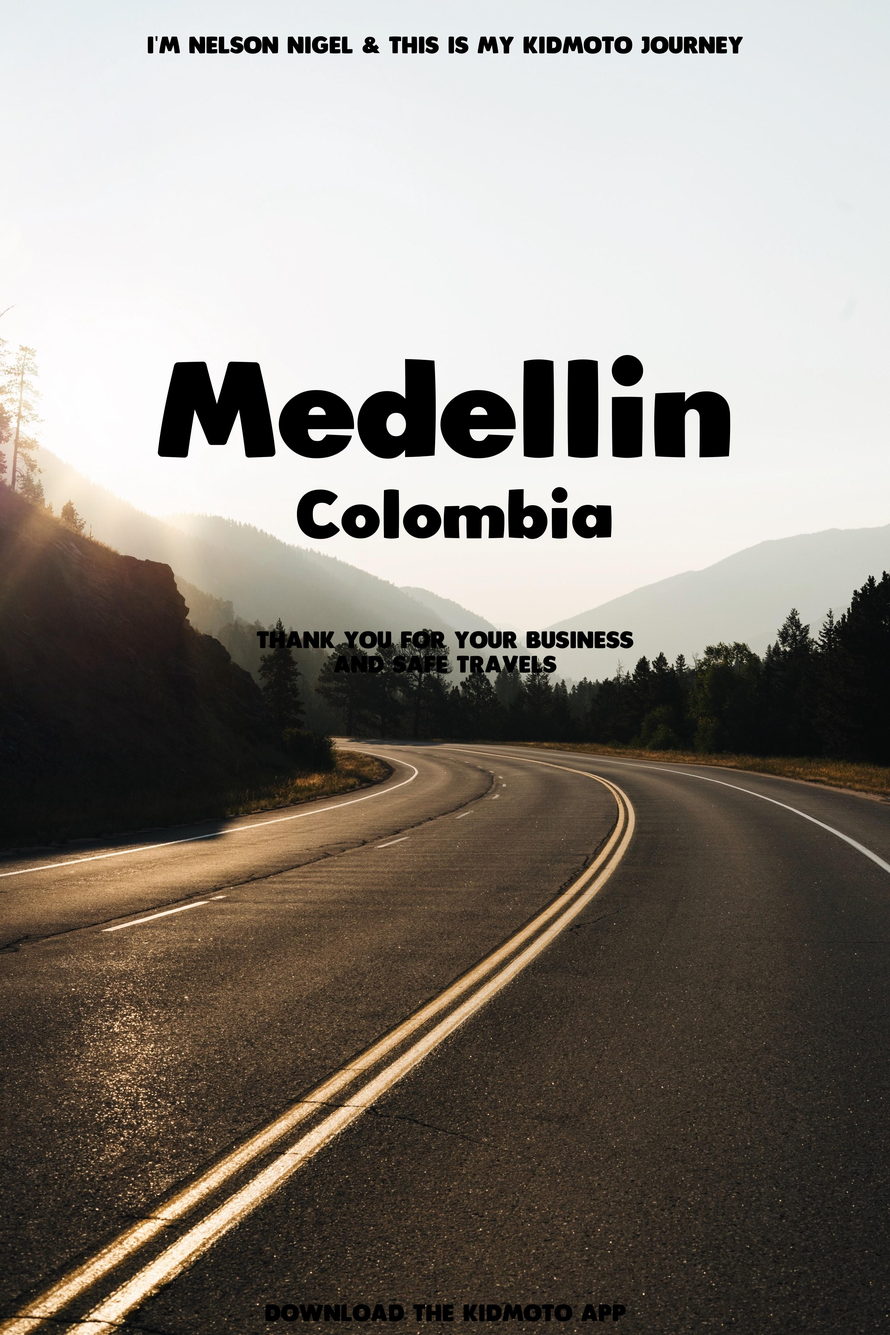
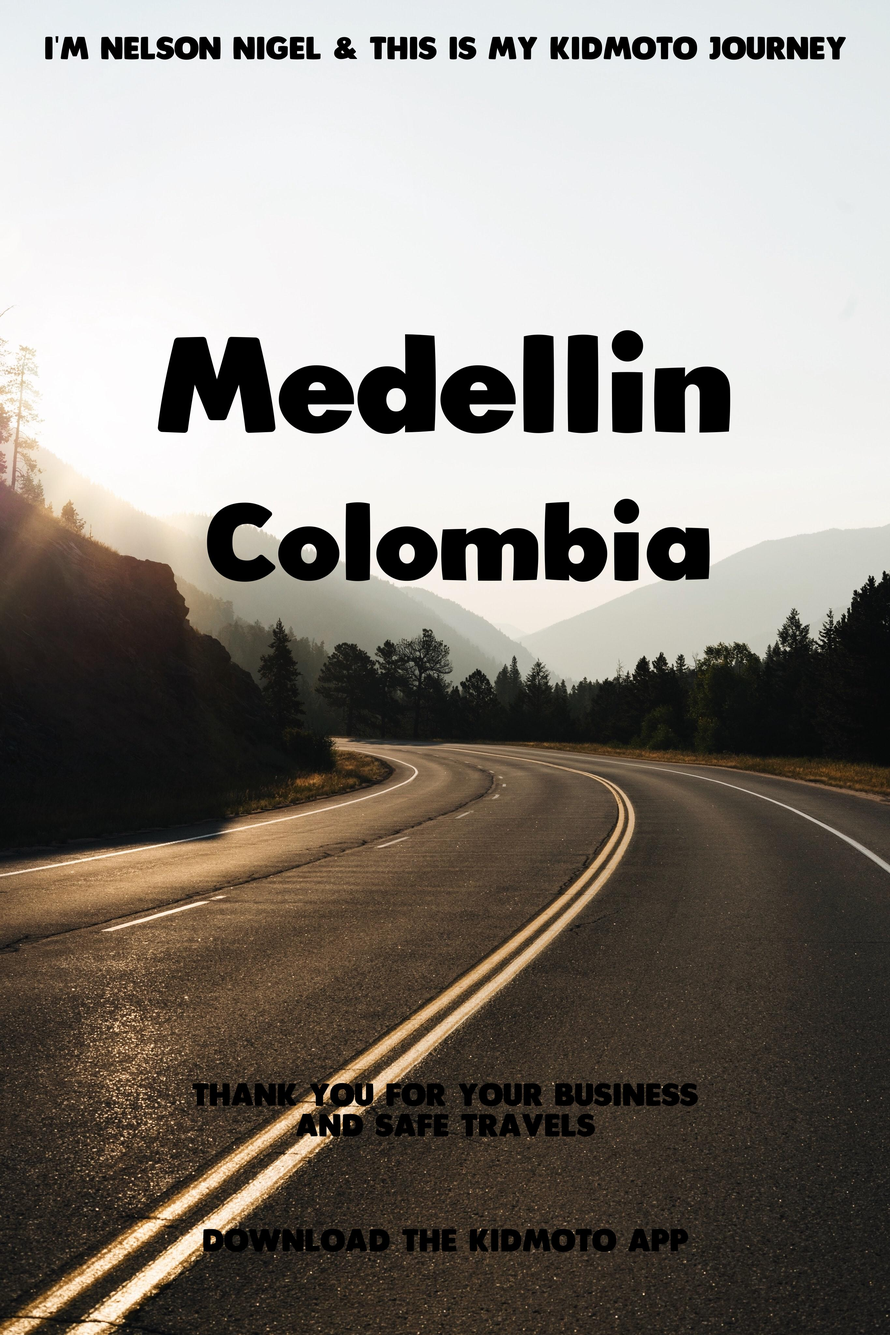
new file:   Democratic Republic of the Congo.jpg 	new file:   Excel/Book1.csv 	modified:   Medellin.jpg 	modified:   main.py     Made main.py more dynamic.

diff --git a/main.py b/main.py
@@ -1,14 +1,12 @@
-from PIL import Image
-from PIL import ImageDraw
-from PIL import ImageFont
+from PIL import Image, ImageDraw, ImageFont
 import textwrap
 
 
 ## EDIT THE TEXT AND THE FONT OF SECTIONS ##
-City = "Punta Cana"
+City = "Democratic Republic of the Congo"
 City_fontName = 'Plumpfull.ttf'
 
-Country = "Dominican Republic"
+Country = "Colombia"
 Country_fontName = 'Plumpfull.ttf'
 
 S1 = "I'M NELSON NIGEL & THIS IS MY KIDMOTO JOURNEY"
@@ -32,60 +30,76 @@ draw = ImageDraw.Draw(img)
 
 
 ## S1 TEXT ##
-S1_font = ImageFont.truetype(S1_fontName, 70)
+S1_font = ImageFont.truetype(S1_fontName, int(height*0.023))
 text = S1
 text_width, text_height = draw.textsize(text, font=S1_font)
 x = (width - text_width) / 2
-y = 110
+y = int(height*0.027)
 draw.text((x, y), text, font = S1_font, fill = (0, 0, 0))
 
+## City Text ##
 
-## CITY TEXT ##
-city_font = ImageFont.truetype(City_fontName, 400)
+city_font_size_max = 400
+city_font_size_min = 250
+city_fontName = 'Plumpfull.ttf'
+
+# Calculate font size based on string length
+city_font_size = max(min(city_font_size_max, int(city_font_size_max * 10 / len(City))), city_font_size_min)
+
+city_font = ImageFont.truetype(city_fontName, city_font_size)
 text = City
 text_width, text_height = draw.textsize(text, font=city_font)
-x = (width - text_width) / 2
-y = 1100
-draw.text((x, y), text, font = city_font, fill = (0, 0, 0))
+max_width = int(width*0.9)  # maximum width for the text
+if text_width > max_width:
+    lines = textwrap.wrap(text, width=int(max_width/text_width*len(text)))
+else:
+    lines = [text]
+y = int(height*0.25) - (text_height*(len(lines)-1))/2  # center the text vertically with equal spacing
+for line in lines:
+    text_width, text_height = draw.textsize(line, font=city_font)
+    x = (width - text_width) / 2
+    draw.text((x, y), line, font=city_font, fill=(0, 0, 0))
+    y += text_height
 
 
 ## COUNTRY TEXT ##
-country_font = ImageFont.truetype(Country_fontName, 200)
+country_font_size = int(city_font_size * 0.8)
+country_font = ImageFont.truetype(Country_fontName, country_font_size)
 text = Country
 text_width, text_height = draw.textsize(text, font=country_font)
-x_country = (width - text_width) / 2 + 30
-y = 1500
-draw.text((x_country, y), text, font = country_font, fill = (0, 0, 0))
+x_country = (width - text_width) / 2 + int(width*0.016)
+y_country = int(height*0.366) + int(city_font_size * 1.2)  # adjust the y-coordinate based on the size of City Text letters
+draw.text((x_country, y_country), text, font = country_font, fill = (0, 0, 0))
 
 
 ## S3 TEXT ##
-S3_font = ImageFont.truetype(S3_fontName, 70)
+S3_font = ImageFont.truetype(S3_fontName, int(height*0.023))
 lines = textwrap.wrap(S3, width=30)
 text_width, line_heights = [], []
-spacing = 20
+spacing = int(height*0.005)
 for line in lines:
     line_width, line_height = draw.textsize(line, font=S3_font)
     text_width.append(line_width)
     line_heights.append(line_height)
 text_height = sum(line_heights) + spacing * (len(lines) - 1)
 x = (width - max(text_width)) / 2
-y = 2000 - text_height / 2
+y = int(height*0.82) - (len(lines)-1)*max(line_heights) / 2 # center the text vertically
+for i, line in enumerate(lines):
+    line_width, line_height = draw.textsize(line, font=S3_font)
+    x = (width - line_width) / 2  # center the line horizontally
+    draw.text((x, y), line, font=S3_font, fill=(0, 0, 0))
+    y += line_heights[i] + spacing
 
-for line, line_height in zip(lines, line_heights):
-    line_width, _ = draw.textsize(line, font=S3_font)
-    draw.text(((width - line_width) / 2, y), line, font=S3_font, fill=(0, 0, 0))
-    y += line_height + spacing
-
-
-## S4 TEXT ##
-S4_font = ImageFont.truetype(S4_fontName, 70)
+    
+## S4 TEXT
+S4_font = ImageFont.truetype(S4_fontName, int(height * 0.023))
 text = S4
 text_width, text_height = draw.textsize(text, font=S4_font)
 x = (width - text_width) / 2
-y = 4000
-draw.text((x, y), text, font = S4_font, fill = (0, 0, 0))
+y = int(height * 0.92)
+draw.text((x, y), text, font=S4_font, fill=(0, 0, 0))
 
-
+## SAVE THE IMAGE
 
 img.show()
 img.save(City+'.jpg')
